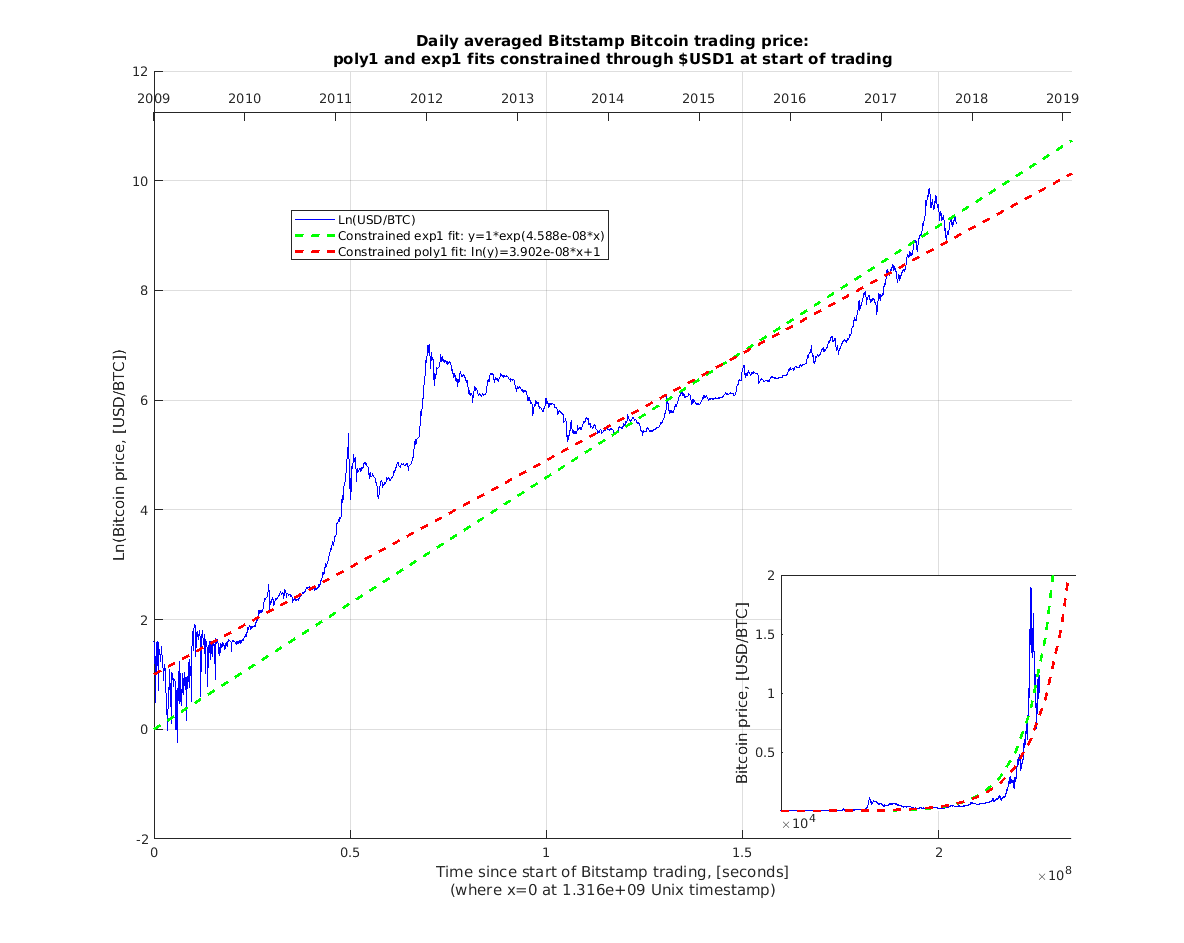
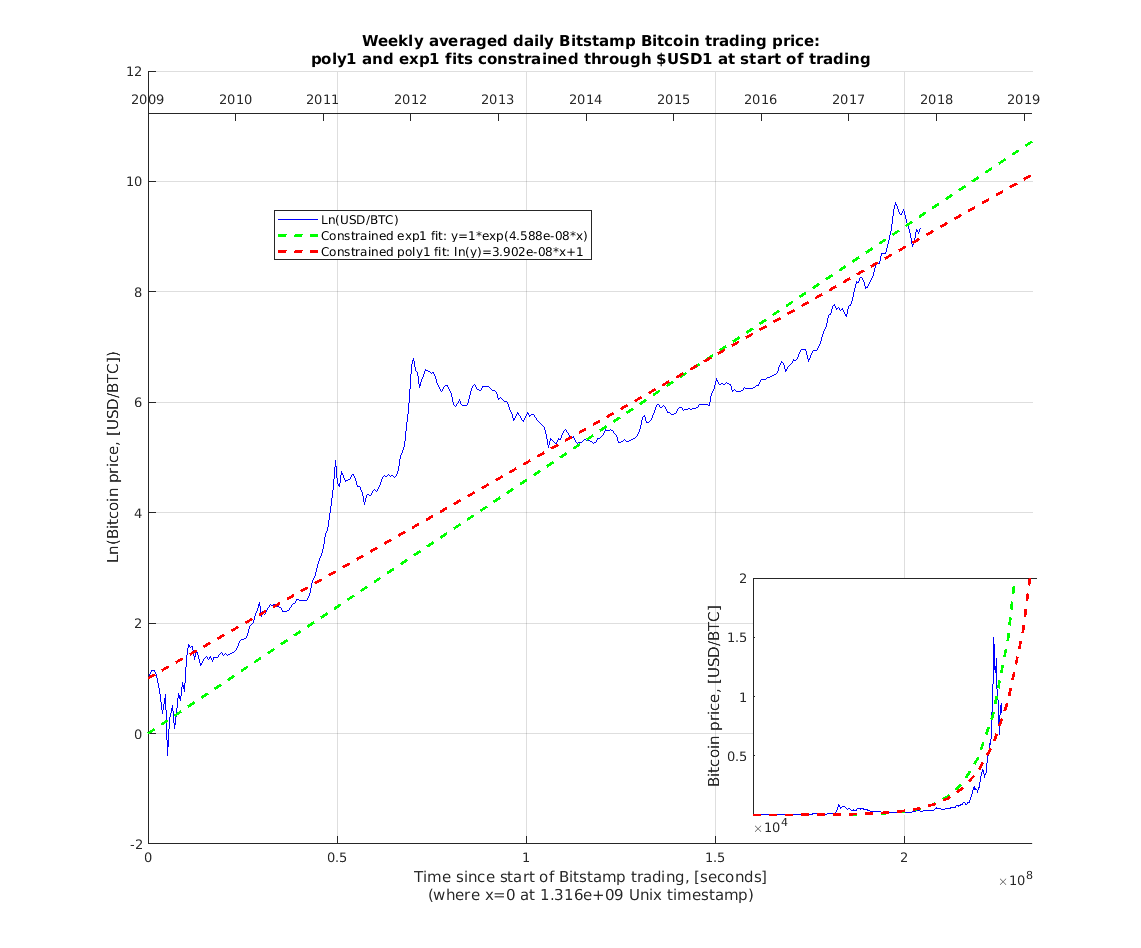
reformat constrained price figure

diff --git a/functions/plotTradingStartConstrained.m b/functions/plotTradingStartConstrained.m
@@ -36,7 +36,7 @@ plot(timeNorm,lnPrice,'b');
 plot(timeExt,lnfitExpExt,'g--','LineWidth',2);
 plot(timeExt,fitPolyExt,'r--','LineWidth',2);
 
-title({'Daily averaged Bitstamp Bitcoin trading price:';'poly1 and exp1 fits constrained through $USD1 at start of trading'})
+title({'Weekly averaged daily Bitstamp Bitcoin trading price:';'poly1 and exp1 fits constrained through $USD1 at start of trading'})
 xlabel({'Time since start of Bitstamp trading, [seconds]';sprintf('(where x=0 at %.3e Unix timestamp)',timeOfBitstamp)})
 ylabel('Ln(Bitcoin price, [USD/BTC])')
 legend('Ln(USD/BTC)',...
@@ -46,7 +46,7 @@ legend('Ln(USD/BTC)',...
 % axis for years
 ax2 = axes('Position',[ax.Position(1) .88 ax.Position(3) 1e-12],...
     'XAxisLocation','top','Color','none');
-ax2.XLim = [2009 2019.1];
+ax2.XLim = [2011.6 2019.1];
 %ax2.YLim = [log(minPrice) log(maxPrice)];
 
 % inset linear plot
